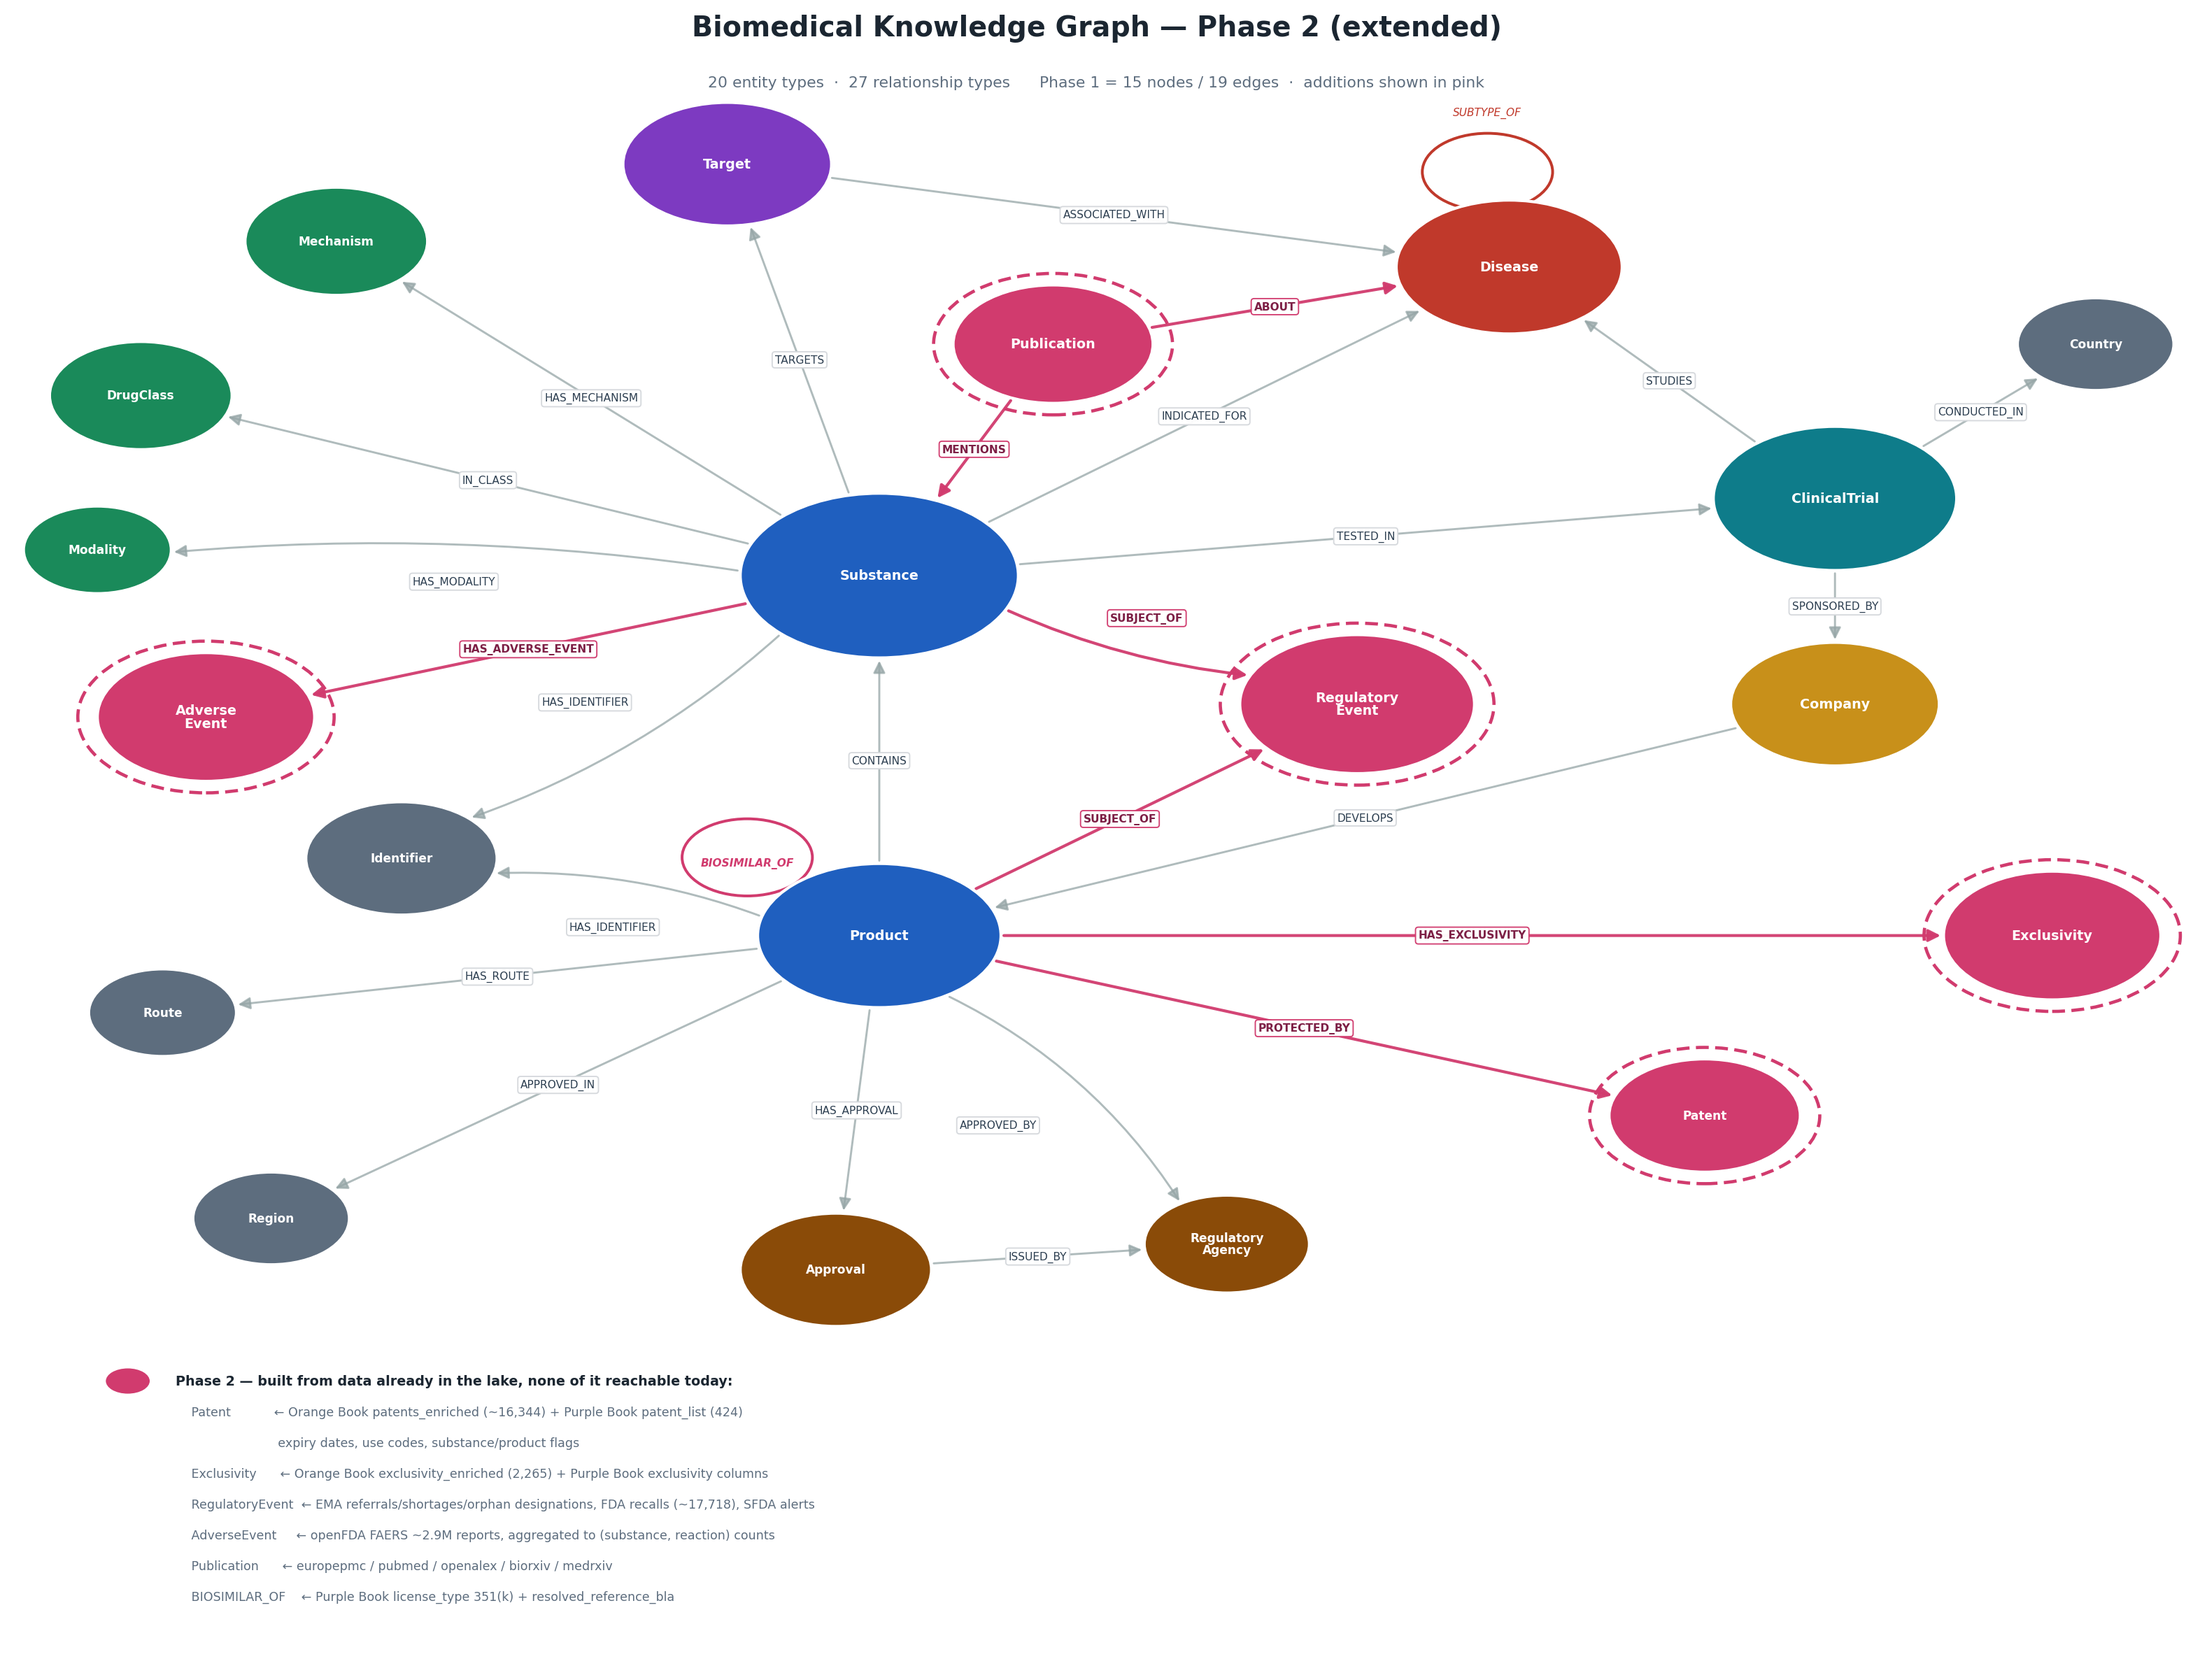
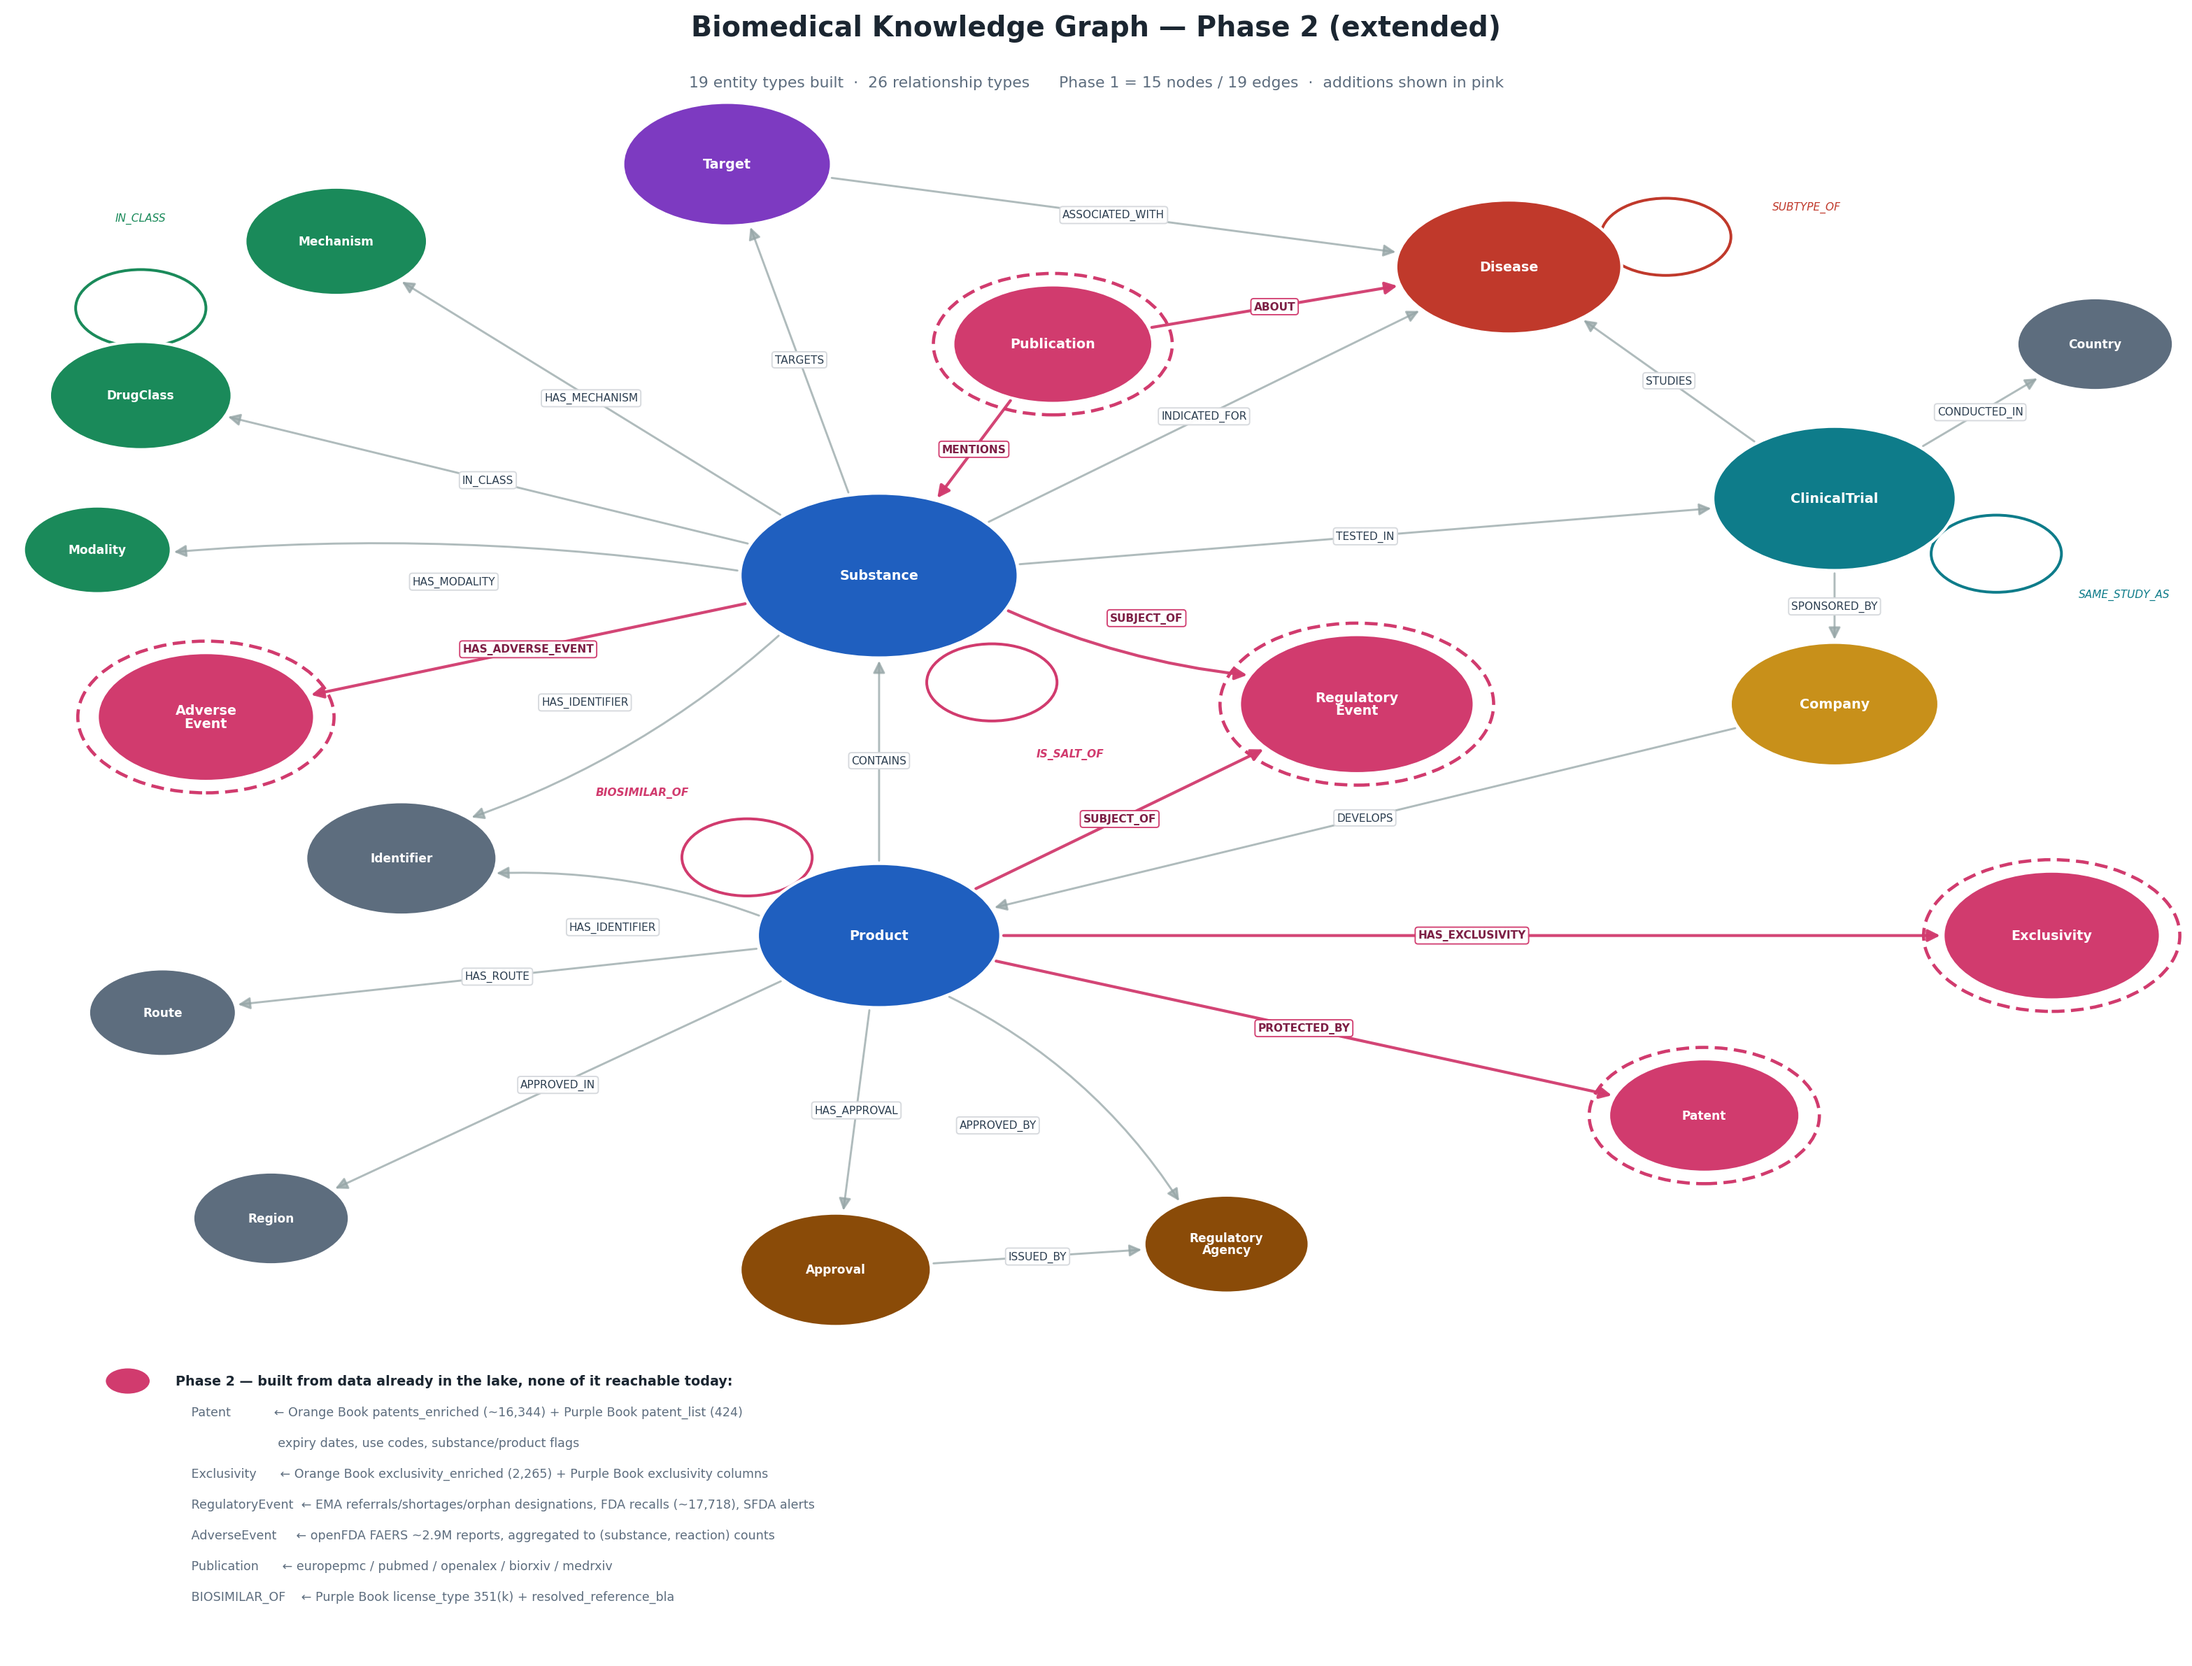
Show all five same-label relationships on the schema diagram
The diagram drew two self-loops, SUBTYPE_OF and BIOSIMILAR_OF, but there are
five: IS_SALT_OF (122,125 edges), SAME_STUDY_AS (32,545), SUBTYPE_OF (8,086),
IN_CLASS's ATC tree (6,982) and BIOSIMILAR_OF (90). IS_SALT_OF is new and was
missing entirely.

The loop means an edge between two DIFFERENT nodes of the same label -
VALPROATE SODIUM -> VALPROIC ACID, Zarxio -> Neupogen - not a node pointing at
itself. There are zero true self-loops in the build and the validator would
have to be extended to keep it that way.

Placement is by angle rather than by named side, because the only thing that
matters is finding a direction no edge already runs through, and Substance has
eleven neighbours. Three specifics that took a second pass: at 160 deg the
DrugClass loop ran off the left edge of the canvas, Disease's loop above the
node put its label through the subtitle, and labels offset from the loop centre
rather than its far side printed on top of the circle they name.

Header said 20 entity types / 27 relationships; 19 and 26 are built. Publication
stays on the diagram as phase 2 - declared, deliberately not loaded.

diff --git a/graph/make_schema_png.py b/graph/make_schema_png.py
@@ -131,16 +131,30 @@ for a, b, label, curve, is_new in EDGES:
             bbox=dict(boxstyle="round,pad=0.26", fc="white",
                       ec=NEW if is_new else "#d5d8dc", lw=0.9, alpha=0.97))
 
-# Self-loops. Disease loops above; Product loops to its left, because below it
-# the loop lands on the HAS_APPROVAL edge label.
-for key, lbl, col, side in (("Disease", "SUBTYPE_OF", BIO, "up"),
-                            ("Product", "BIOSIMILAR_OF", NEW, "left")):
+# Self-loops: an edge between two DIFFERENT nodes of the same label, never a
+# node to itself (there are zero true self-loops in the data). Each is placed
+# by angle rather than by named side, because the only thing that matters is
+# picking a direction with no edge already running through it - Substance has
+# eleven neighbours and almost every quadrant is taken.
+#
+# angle, loop radius, and how far out to push the label.
+for key, lbl, col, ang, out in (
+        # Right, not up: Disease sits at y=80 and a loop above it puts the
+        # label through the subtitle.
+        ("Disease",       "SUBTYPE_OF",    BIO,   18,  2.4),
+        ("Product",       "BIOSIMILAR_OF", NEW,   135, 3.0),
+        ("Substance",     "IS_SALT_OF",    NEW,   -58, 3.4),
+        ("ClinicalTrial", "SAME_STUDY_AS", CLIN,  -30, 3.0),
+        # Straight up. At 160 deg the loop ran off the left edge of the canvas
+        # - DrugClass sits at x=6 and the circle needs 6.8 of clearance.
+        ("DrugClass",     "IN_CLASS",      CLASS, 90,  2.6)):
     x, y, r, *_ = NODES[key]
-    if side == "up":
-        cx, cy, tx, ty = x - 1.0, y + r + 2.2, x - 1.0, y + r + 6.6
-    else:
-        d = (r + 3.0) * 0.707        # 135 deg: the only clear quadrant
-        cx, cy, tx, ty = x - d, y + d, x - d, y + 5.4
+    a = np.radians(ang)
+    d = r + out
+    cx, cy = x + d * np.cos(a), y + d * np.sin(a)
+    # Past the far side of the loop (radius 3), not just past its centre, or
+    # the label prints on top of the circle it names.
+    tx, ty = x + (d + 6.8) * np.cos(a), y + (d + 6.8) * np.sin(a)
     ax.add_patch(Circle((cx, cy), 3.0, fill=False, ec=col, lw=1.9, zorder=1))
     ax.text(tx, ty, lbl, fontsize=7.4, ha="center", color=col, style="italic",
             fontweight="bold" if col == NEW else "normal")
@@ -158,7 +172,7 @@ for key, (x, y, r, col, label, is_new) in NODES.items():
 ax.text(50, 98.0, "Biomedical Knowledge Graph — Phase 2 (extended)",
         fontsize=19, ha="center", fontweight="bold", color="#1b2631")
 ax.text(50, 94.0,
-        "20 entity types  ·  27 relationship types      "
+        "19 entity types built  ·  26 relationship types      "
         "Phase 1 = 15 nodes / 19 edges  ·  additions shown in pink",
         fontsize=10.5, ha="center", color="#5d6d7e")
 
